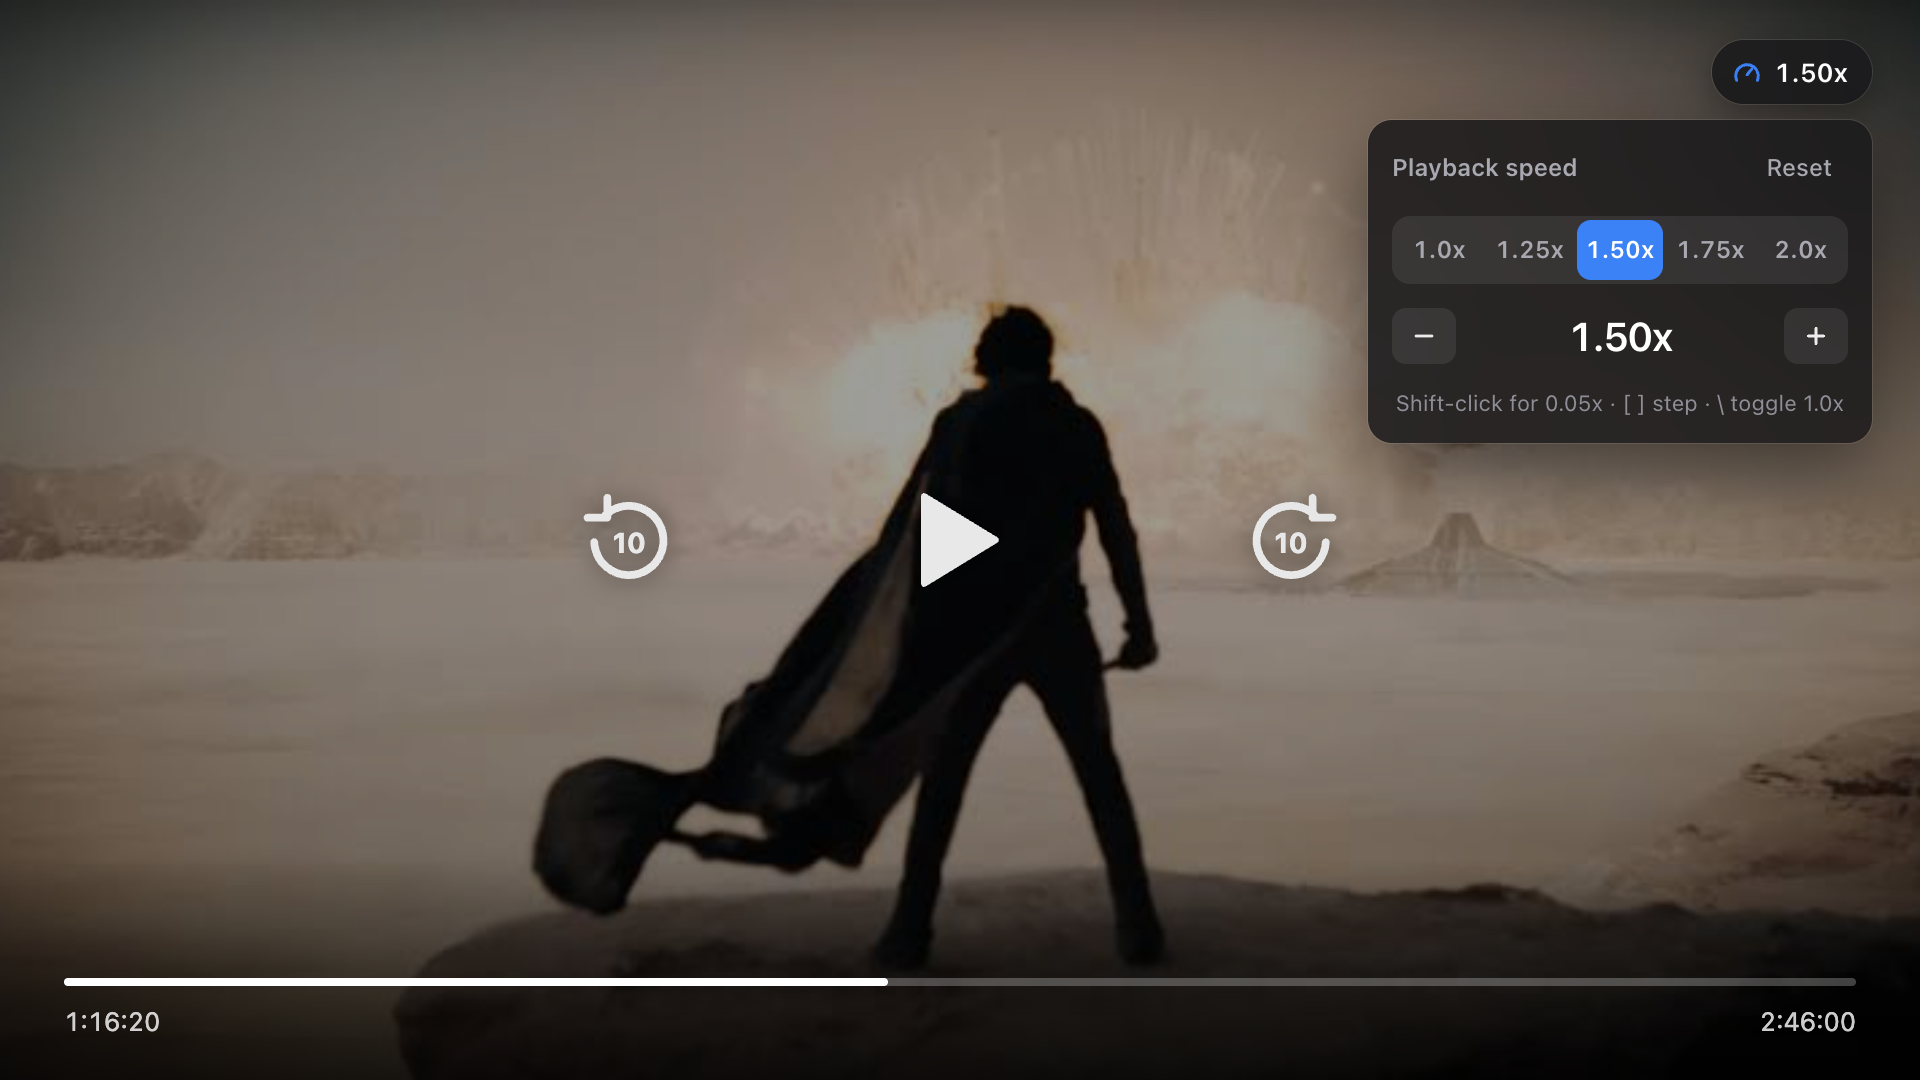
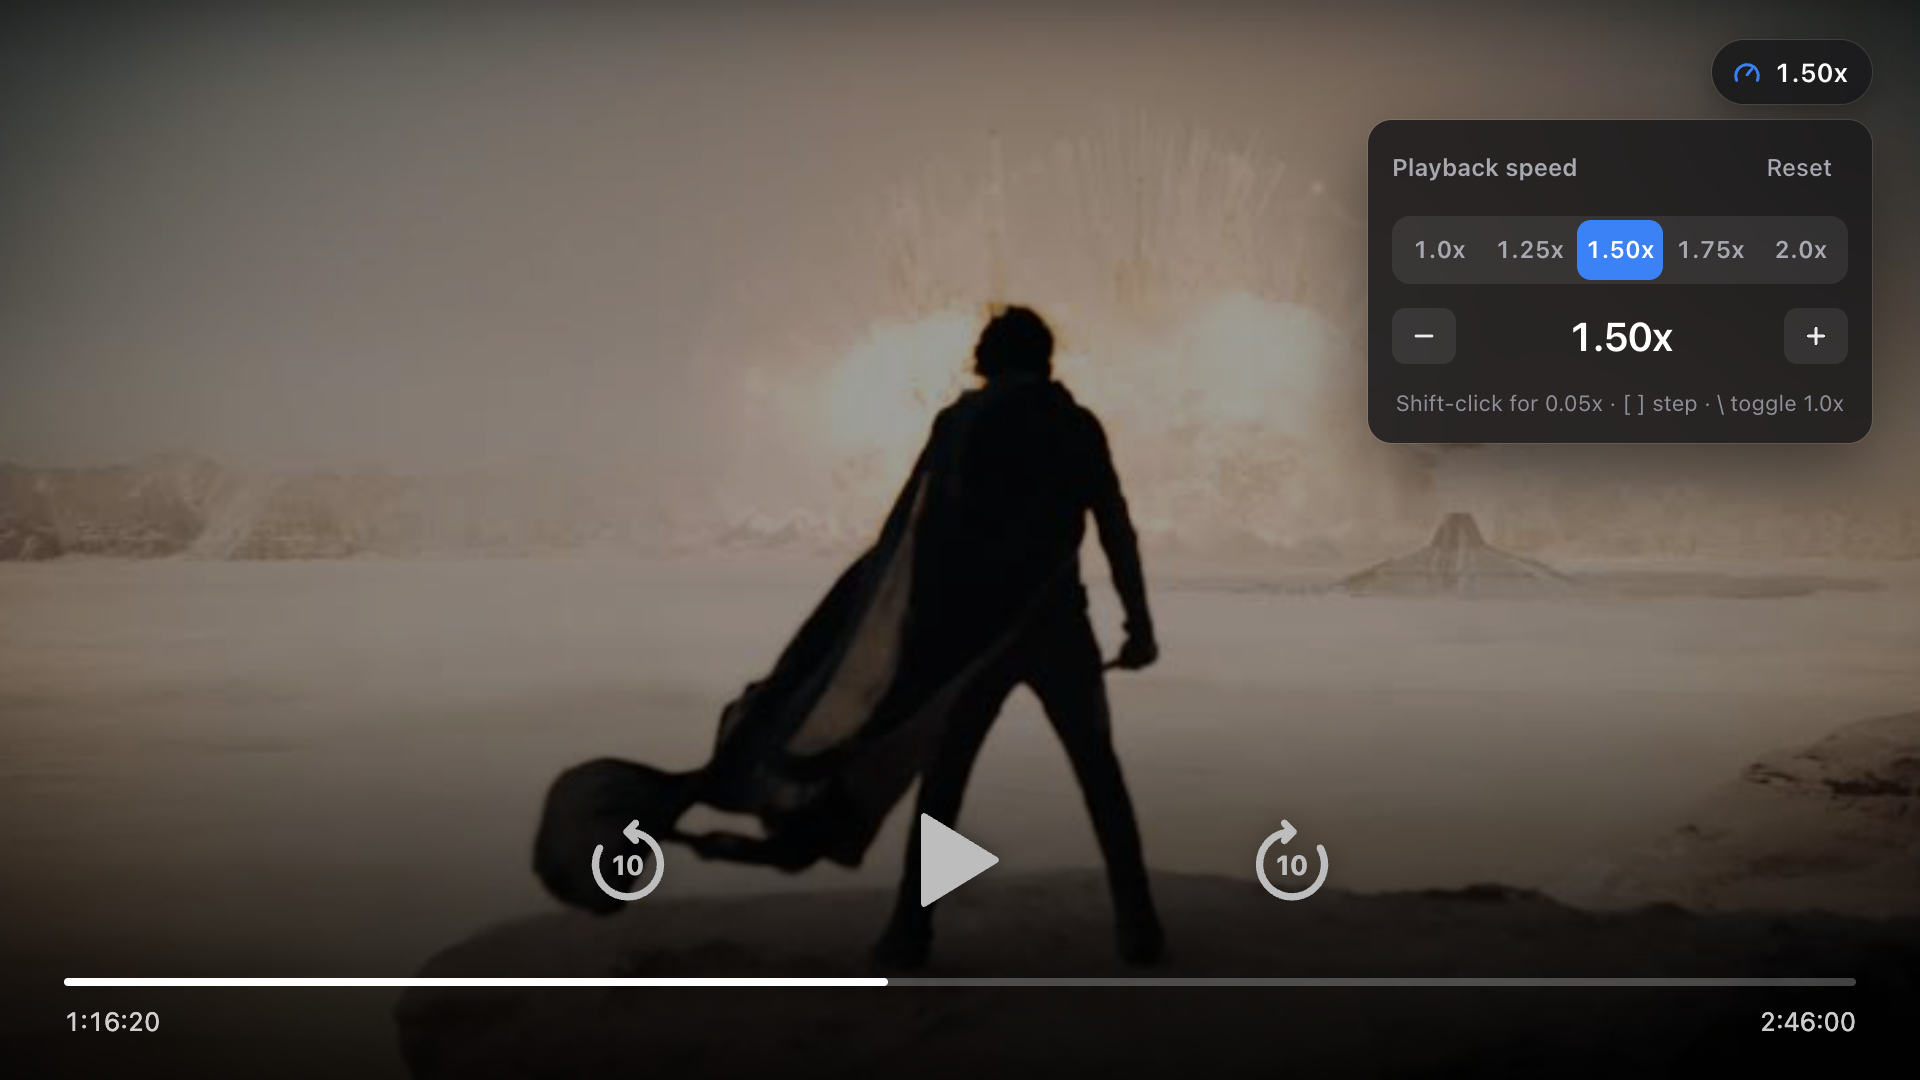
docs: move player controls to the bottom of the player screenshots
- Back 10, play and forward 10 sit centred just above the progress bar,
  in grey, matching a typical streaming player
- Redraw the skip icons as round arrows with a chevron tip

diff --git a/scripts/screenshots/overlay.html b/scripts/screenshots/overlay.html
@@ -8,9 +8,9 @@
       html, body { margin: 0; height: 100%; overflow: hidden; font: 13px -apple-system, BlinkMacSystemFont, system-ui, sans-serif; }
       body { background: #000 url(still.jpg) center / cover no-repeat; }
       .scrim { position: fixed; inset: 0; background: rgba(0, 0, 0, 0.38); }
-      .center { position: fixed; left: 50%; top: 50%; transform: translate(-50%, -50%); display: flex; align-items: center; gap: 118px; color: #e8e8e8; filter: drop-shadow(0 1px 6px rgba(0,0,0,.45)); }
+      .center { position: fixed; left: 50%; bottom: 84px; transform: translateX(-50%); z-index: 1; display: flex; align-items: center; gap: 118px; color: #bdbdbd; filter: drop-shadow(0 1px 6px rgba(0,0,0,.45)); }
       .center svg { display: block; }
-      .controls { position: fixed; left: 0; right: 0; bottom: 0; padding: 60px 32px 22px; background: linear-gradient(transparent, rgba(0,0,0,.7)); color: #fff; }
+      .controls { position: fixed; left: 0; right: 0; bottom: 0; padding: 150px 32px 22px; background: linear-gradient(transparent, rgba(0,0,0,.75)); color: #fff; }
       .bar { height: 4px; border-radius: 2px; background: rgba(255,255,255,.25); }
       .bar i { display: block; width: 46%; height: 4px; border-radius: 2px; background: #fff; }
       .time { display: flex; justify-content: space-between; margin-top: 10px; opacity: .8; font-variant-numeric: tabular-nums; }
@@ -18,7 +18,7 @@
   </head>
   <body>
     <div class="scrim"></div>
-    <div class="center"><svg width="52" height="52" viewBox="0 0 48 48" aria-label="Back 10 seconds"><path d="M13.6 12.4A16 16 0 1 1 8.4 25" fill="none" stroke="currentColor" stroke-width="3.6" stroke-linecap="round"/><path d="M14.5 4.5v9.2H5.3" fill="none" stroke="currentColor" stroke-width="3.6" stroke-linecap="round" stroke-linejoin="round"/><text x="24.5" y="30" text-anchor="middle" font-size="13" font-weight="700" fill="currentColor" font-family="-apple-system, BlinkMacSystemFont, system-ui, sans-serif">10</text></svg><svg width="44" height="52" viewBox="0 0 44 52" aria-label="Play"><path d="M4 4L40 26L4 48Z" fill="currentColor" stroke="currentColor" stroke-width="3" stroke-linejoin="round"/></svg><svg width="52" height="52" viewBox="0 0 48 48" aria-label="Forward 10 seconds"><path d="M34.4 12.4A16 16 0 1 0 39.6 25" fill="none" stroke="currentColor" stroke-width="3.6" stroke-linecap="round"/><path d="M33.5 4.5v9.2h9.2" fill="none" stroke="currentColor" stroke-width="3.6" stroke-linecap="round" stroke-linejoin="round"/><text x="23.5" y="30" text-anchor="middle" font-size="13" font-weight="700" fill="currentColor" font-family="-apple-system, BlinkMacSystemFont, system-ui, sans-serif">10</text></svg></div>
+    <div class="center"><svg width="52" height="52" viewBox="0 0 48 48" aria-label="Back 10 seconds"><path d="M24 11A15 15 0 1 1 11 18.5" fill="none" stroke="currentColor" stroke-width="3.4" stroke-linecap="round"/><path d="M27.5 7L23.5 11L27.5 15" fill="none" stroke="currentColor" stroke-width="3.4" stroke-linecap="round" stroke-linejoin="round"/><text x="24" y="31" text-anchor="middle" font-size="12.5" font-weight="700" fill="currentColor" font-family="-apple-system, BlinkMacSystemFont, system-ui, sans-serif">10</text></svg><svg width="44" height="52" viewBox="0 0 44 52" aria-label="Play"><path d="M4 4L40 26L4 48Z" fill="currentColor" stroke="currentColor" stroke-width="3" stroke-linejoin="round"/></svg><svg width="52" height="52" viewBox="0 0 48 48" aria-label="Forward 10 seconds"><path d="M24 11A15 15 0 1 0 37 18.5" fill="none" stroke="currentColor" stroke-width="3.4" stroke-linecap="round"/><path d="M20.5 7L24.5 11L20.5 15" fill="none" stroke="currentColor" stroke-width="3.4" stroke-linecap="round" stroke-linejoin="round"/><text x="24" y="31" text-anchor="middle" font-size="12.5" font-weight="700" fill="currentColor" font-family="-apple-system, BlinkMacSystemFont, system-ui, sans-serif">10</text></svg></div>
     <div class="controls"><div class="bar"><i></i></div><div class="time"><span>1:16:20</span><span>2:46:00</span></div></div>
     <script src="/src/shared/speed-utils.js"></script>
     <script src="/src/content/overlay-ui.js"></script>
